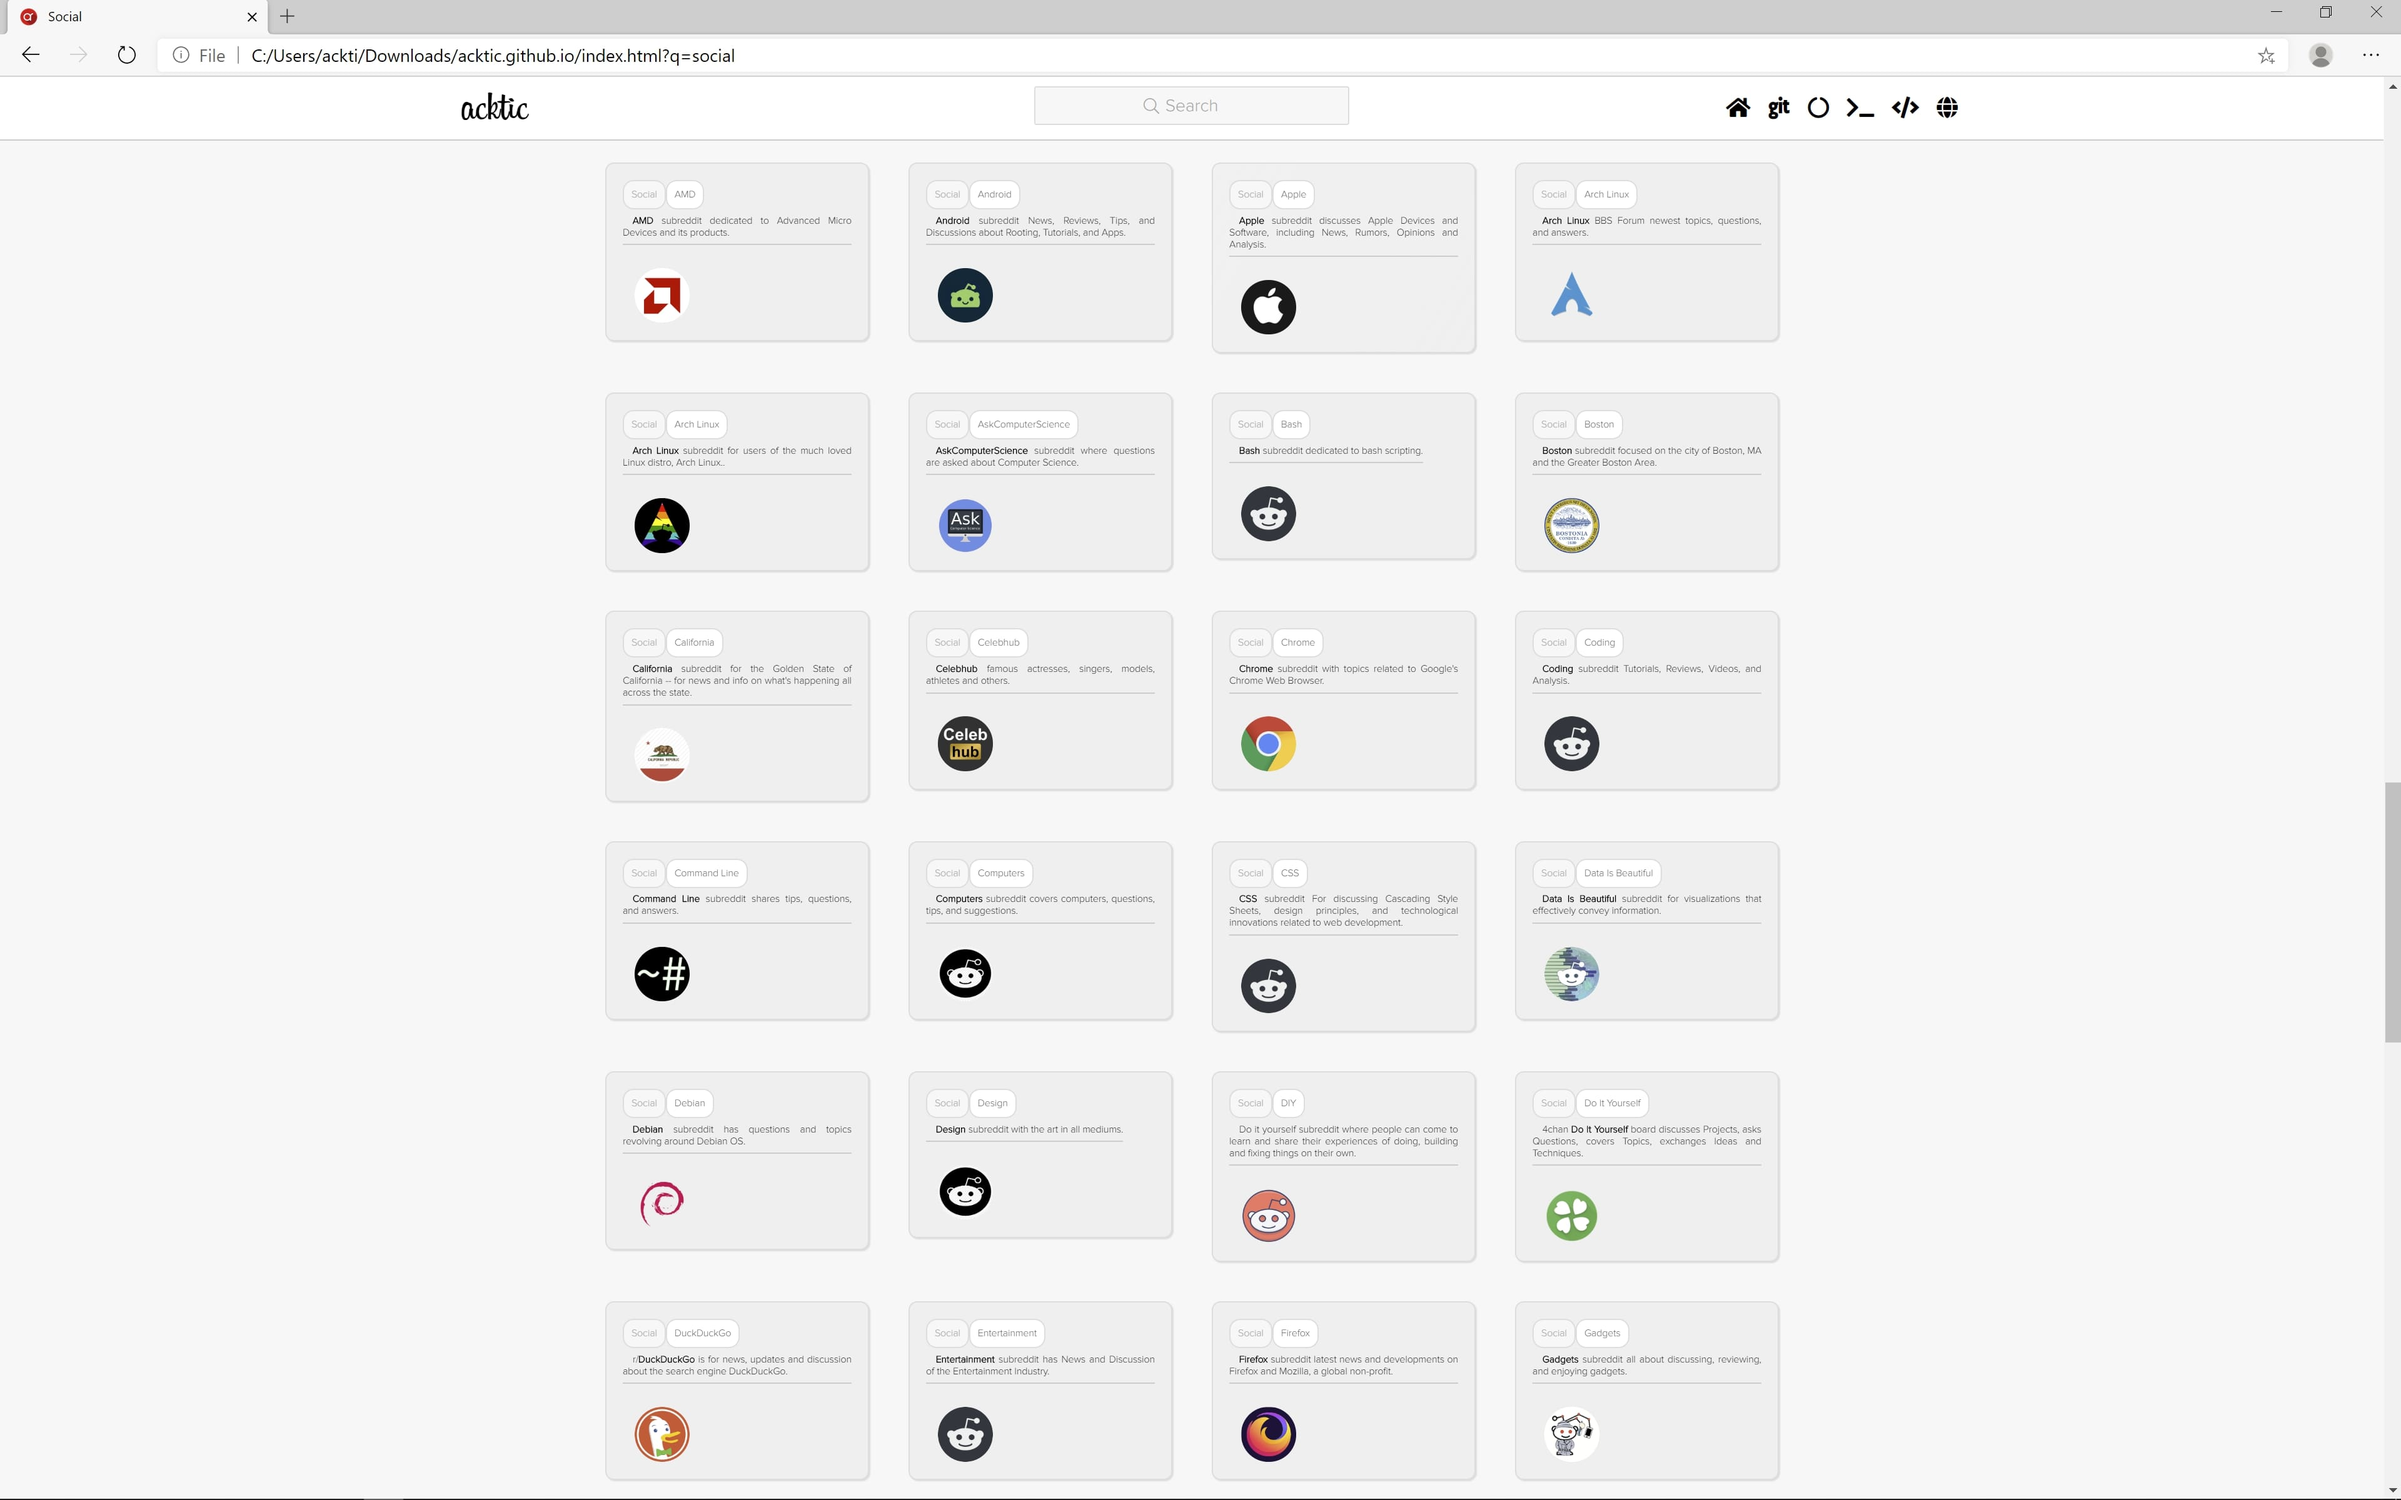
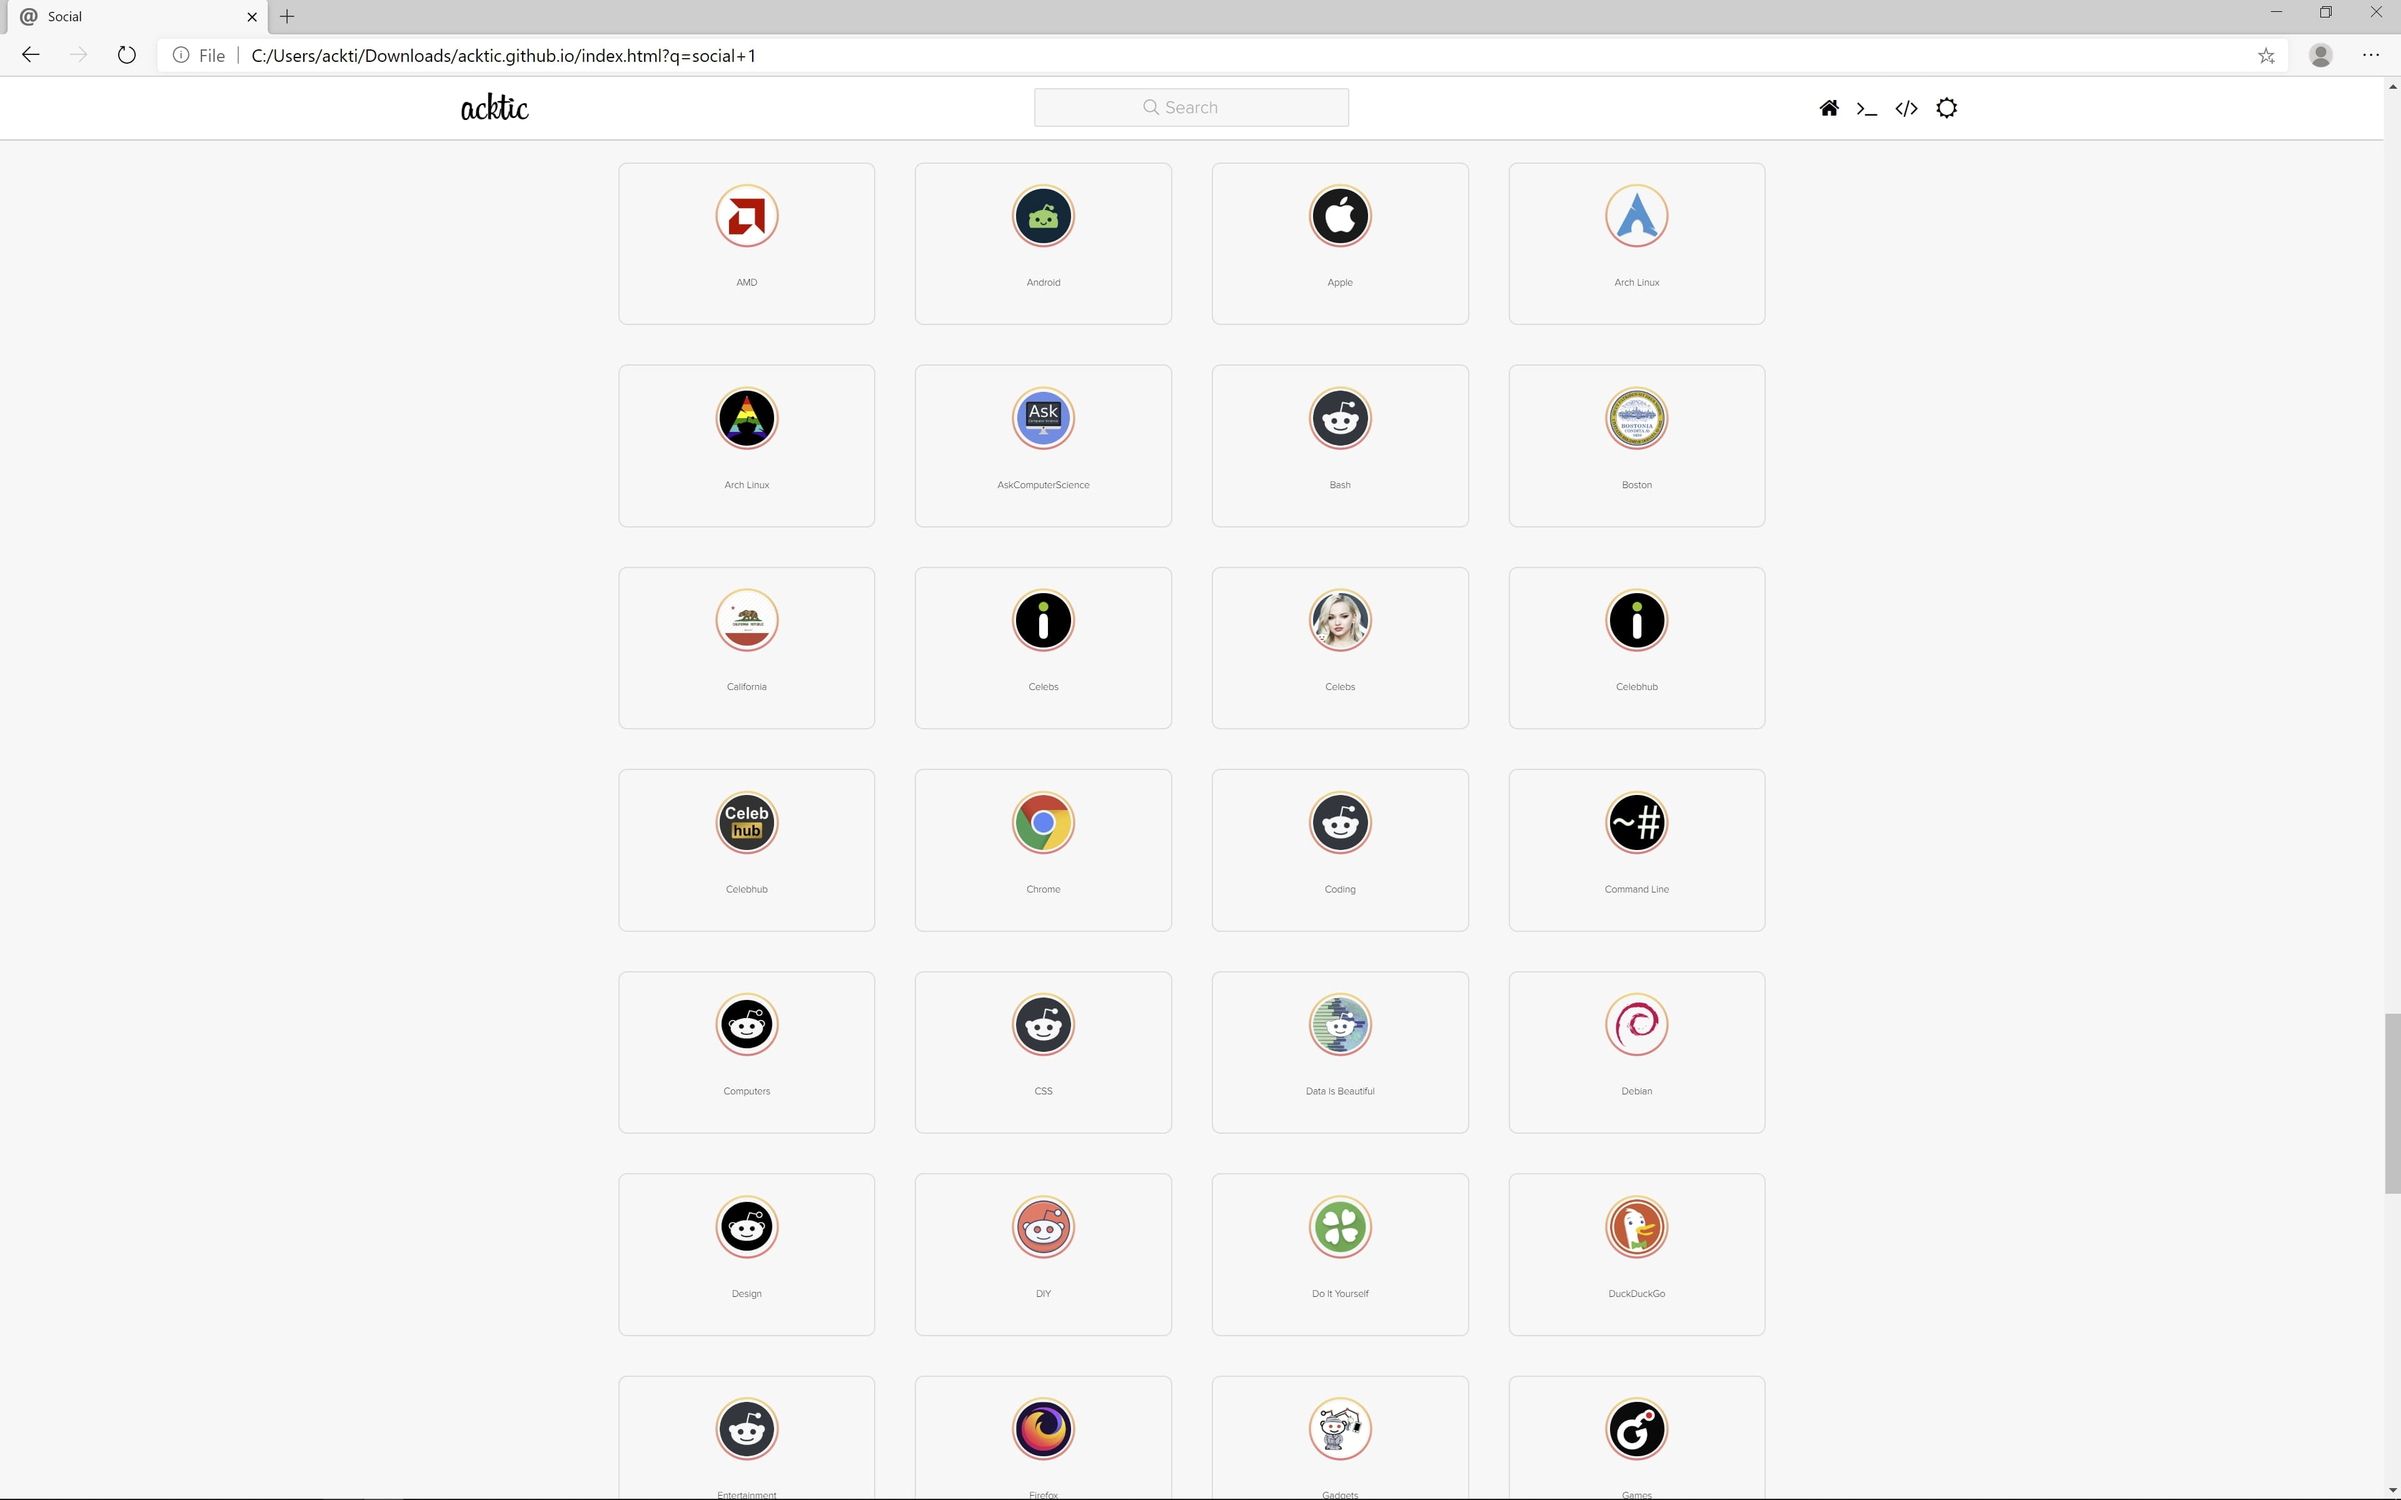
redid filter populate, a little better

diff --git a/js/base.js b/js/base.js
@@ -1,6 +1,6 @@
 var id
 var img
-var op = 1
+var op = 0
 var tap = 0
 var object = []
 var filter = []
@@ -247,14 +247,26 @@ var populate = function(n) {
       $('#main .result').append(
         "<div class='populate' index='" + menu.indexOf(menu[i]) + "'" +
         "  response='" + menu[i].id.toLowerCase().replace(/\/|\.|\s|\-/g, '-') + "'> " +
-        "  <div class='pub'>" +
-        "    <div class='category'>" + menu[i].cat + "</div>" +
-        "    <a class='title' ext='" + menu[i].ext + "'>" +
+        "  <div class='display'>" +
+        "<svg>" +
+        "  <defs>" +
+        "    <linearGradient id='gradientOpposite'>" +
+        "      <stop offset='0%' stop-color='#ef4063' />" +
+        "      <stop offset='99%' stop-color='#e557c6' />" +
+        "    </linearGradient>" +
+        "    <linearGradient id='gradientInvert'>" +
+        "      <stop offset='0%' stop-color='#F7797d' />" +
+        "      <stop offset='99%' stop-color='#fbd786' />" +
+        "    </linearGradient>" +
+        "  </defs>" +
+        "  <circle cx='36' cy='36' r='28' class='border'></circle>" +
+        "</svg>" +
+        "    <img class='id' src='" + img + "' " +
+        "       response='" + menu[i].id.toLowerCase().replace(/\/|\.|\s|\-/g, '-') + "'> " +
+        "  </div>" +
+        "    <a class='title' ext='" + menu[i].ext + "' title='" + menu[i].id + "'>" +
                menu[i].id.match(/[^\/]+$/g) +
         "    </a>" +
-        "  </div>" +
-        "  <div class='description'>&emsp;" + hilight + "</div>" +
-        "  <img class='id' style='top:10px' src='" + img + "'>" +
         "</div>"
       )
     }
@@ -281,15 +293,27 @@ var air = function(n) {
         "<div class='populate' + index='" + menu.indexOf(menu[i]) + "'" +
         "  response='" +
              menu[i].id.toLowerCase().replace(/[\/|\.|\s|\-]/g, '-') + "'> " +
-        "  <div class='pub'>" +
-        "    <div class='category'>" + menu[i].cat + "</div>" +
-        "    <a class='title' ext='" + menu[i].ext + "'>" +
-               menu[i].id.match(/[^\/]+$/g) +
-        "    </a>" +
-        "  </div>" +
-        "  <div class='description'>&emsp;" + hilight + "</div>" +
-        "  <img class='id' style='top:10px' src='" + img + "'>" +
-        "</div>"
+             "  <div class='display'>" +
+             "<svg>" +
+             "  <defs>" +
+             "    <linearGradient id='gradientOpposite'>" +
+             "      <stop offset='0%' stop-color='#ef4063' />" +
+             "      <stop offset='99%' stop-color='#e557c6' />" +
+             "    </linearGradient>" +
+             "    <linearGradient id='gradientInvert'>" +
+             "      <stop offset='0%' stop-color='#F7797d' />" +
+             "      <stop offset='99%' stop-color='#fbd786' />" +
+             "    </linearGradient>" +
+             "  </defs>" +
+             "  <circle cx='36' cy='36' r='28' class='border'></circle>" +
+             "</svg>" +
+             "    <img class='id' src='" + img + "' " +
+             "       response='" + menu[i].id.toLowerCase().replace(/\/|\.|\s|\-/g, '-') + "'> " +
+             "  </div>" +
+             "    <a class='title' ext='" + menu[i].ext + "' title='" + menu[i].id + "'>" +
+                    menu[i].id.match(/[^\/]+$/g) +
+             "    </a>" +
+             "</div>"
       )
     }
   }
@@ -359,6 +383,7 @@ var write = function(n) {
       "<div class='result' style='display:none'></div>"
     )
   var tag = menu[n].id.match(/[^\/]+$/g)
+  var img = 'images/png/' + menu[n].img + '.png'
   var hilight = menu[n].des.replace(tag, "<b>" + tag + '</b>')
   if (n != id || n != filter[filter.length - 1] || filter.length >= 1)
     $('#main .result').append(
@@ -367,14 +392,26 @@ var write = function(n) {
       "  response='" + menu[n].id.toLowerCase().replace(/[\/|\.|\s|\-]/g, '-') + "'" +
       "  search='" + menu[n].cat.toLowerCase() +
       "'> " +
-      "  <div class='pub'>" +
-      "    <div class='category'>" + menu[n].cat + "</div>" +
-      "    <a class='title' ext='" + menu[n].ext + "'>" +
+      "  <div class='display'>" +
+      "<svg>" +
+      "  <defs>" +
+      "    <linearGradient id='gradientOpposite'>" +
+      "      <stop offset='0%' stop-color='#ef4063' />" +
+      "      <stop offset='99%' stop-color='#e557c6' />" +
+      "    </linearGradient>" +
+      "    <linearGradient id='gradientInvert'>" +
+      "      <stop offset='0%' stop-color='#F7797d' />" +
+      "      <stop offset='99%' stop-color='#fbd786' />" +
+      "    </linearGradient>" +
+      "  </defs>" +
+      "  <circle cx='36' cy='36' r='28' class='border'></circle>" +
+      "</svg>" +
+      "    <img class='id' src='" + img + "' " +
+      "      response='" + menu[n].id.toLowerCase().replace(/\/|\.|\s|\-/g, '-') + "'> " +
+      "  </div>" +
+      "    <a class='title' ext='" + menu[n].ext + "' title='" + menu[n].id + "'>" +
              menu[n].id.match(/[^\/]+$/g) +
       "    </a>" +
-      "  </div>" +
-      "  <div class='description'>&emsp;" + hilight + "</div>" +
-      "<img class='id' style='top:10px' src='" + "images/png/" + menu[n].img + ".png'>" +
       "</div>"
     )
 

diff --git a/js/visual.js b/js/visual.js
@@ -17,7 +17,7 @@ var visual = function(n) {
     ).css('color', '#fff')
     $(
       '#top, #arm, #home a, #arm #option, .filter, .populate, .wrap, ' +
-      '.header, .title, .category, .type, .item, .comment, .ago, ' +
+      '.header, .type, .item, .comment, .ago, .filter a, .populate a, ' +
       '.pub, .tag, .stats, .suggestions, .combine, .right, .left'
     ).css({
       'background-color': '#0e0e0e',
@@ -44,7 +44,7 @@ var visual = function(n) {
     })
 
     $('#progressBar').removeClass('responseInvert').addClass('responseOpposite')
-    $('.filter, .populate, .category, .title').css('border','1px solid #0e0e0e')
+    $('.filter, .populate').css('border','1px solid #0e0e0e')
     $('#top, .description, .comment').css('border-bottom', '1px solid #333')
     $('#option .fa-circle-o').toggleClass('fa-circle-o fa-circle')
     $('.index, .hover').addClass('contrast').removeClass('visual')
@@ -63,14 +63,14 @@ var visual = function(n) {
   } else if (op == 0) {
     $(
       '#top, #arm, #container, .wrap, ' +
-      '.comment, .channel, #main .center .feed, .title, .header, .tag, ' +
+      '.comment, .channel, #main .center .feed, .header, .tag, ' +
       '.item, .item .pub, .type, .ago, a'
     ).css({
       'background-color': '#fff',
       'color': '#666',
       'border': 'none'
     })
-    $('input[type=text], .category').css({
+    $('input[type=text]').css({
       'background-color': '#f7f7f7',
       'border': '1px solid #ddd',
       'color': '#aaa'
@@ -82,14 +82,15 @@ var visual = function(n) {
     $(
       '#front #option, #main, #visit, .air, .result, #bottom, .hover, .info a, ' +
       '.channel, .stats, .suggestions, .combine, #bottom, #main #page .id, ' +
-      '#main #page .feed, #main #page, .right, .left, #main #page .feed a'
+      '#main #page .feed, #main #page, .right, .left, #main #page .feed a, ' +
+      '.filter, .populate'
     ).css({
       'background-color': '#f7f7f7',
       'border': 'none',
       'color': '#666'
     })
     $(
-      '#home a, .description, .fa-sun, ' +
+      '#home a, .description, .fa-sun, .title, ' +
       '.fa-home, .fa-code, .fa-globe, .fa-git, ' +
       '.fa-terminal, .fa-circle-o, .fa-circle'
     ).css({
@@ -105,10 +106,10 @@ var visual = function(n) {
       'border': 'none'
     })
     $(
-      '.filter, .populate, .item, #page input[type=text], ' +
+      '.item, #page input[type=text], ' +
       '.right, .left, #page .id'
     ).css('box-shadow', '1px 1px 1px #ddd')
-    $('.filter, .populate, #main .center .feed, .title').css('border', '1px solid #ddd')
+    $('.filter, .populate, #main .center .feed').css('border', '1px solid #ddd')
     $('#toggle, .fa-angle-double-left, .fa-angle-double-right').css('color', '#666')
     $('#progressBar').removeClass('responseOpposite').addClass('responseInvert')
     $('#top, .description, .index').css('border-bottom', '1px solid #ccc')
@@ -116,7 +117,6 @@ var visual = function(n) {
     $('#option .fa-circle').toggleClass('fa-circle-thin fa-circle')
     $('.index, .hover').addClass('visual').removeClass('contrast')
     $('.blur').css('background-color','rgba(255, 255, 255, .3)')
-    $('.filter, .populate').css('background-color', '#efefef')
     $('.listing').addClass('invert').removeClass('opposite')
     $('.second').css('cssText','fill: #12d8fa !important')
     $('.third').css('cssText','fill: #06ffcb !important')

diff --git a/js/dynamic.js b/js/dynamic.js
@@ -1,7 +1,8 @@
 $(document)
   .ready()
 .on('touch click', '#main .center .quick .feed .asset .id, ' +
-  '#main #page .quick .feed .asset .id', function(e) {
+  '#main #page .quick .feed .asset .id, ' +
+  '#main .filter .display .id, #main .populate .display .id', function(e) {
   var $this = $(this)
   $(this).parent().find('svg circle').addClass('mask')
   setTimeout(function() {
@@ -20,7 +21,8 @@ $(document)
       else if (contrast == true) uri = uri + '+1'
       exit(uri)
     }
-  }, 550)
+  }, 750)
+  e.stopPropagation()
 })
 
 .on('touch click', '#main .center .channel .item', function(e) {
@@ -160,7 +162,7 @@ $(document)
           $(this).parents('.item').find('.source').val()
         )
         $('#guide').find('.copy:first').remove()
-        image(false, false, 
+        image(false, false,
           $(this).parents('.item').attr('item'),
           $(this).parents('.item').find('.img').attr('src')
         )

diff --git a/css/static.css b/css/static.css
@@ -260,17 +260,26 @@ body,
   border-radius: 8px;
   flex-wrap: wrap;
   font-size: 9px;
-  padding: 15px;
+  padding: 12px;
   margin: 3em;
   width: 16em;
+}
+
+.filter a,
+.populate a {
+  position: relative;
+  margin: 10px auto;
+}
+
+.filter .display,
+.populate .display {
+  width: 100%;
 }
 
 .title,
 .category {
   border-radius: 10px;
-  margin: auto 0;
-  padding: 7px;
-  float: left;
+  padding: 10px;
 }
 
 .description {

diff --git a/css/media.css b/css/media.css
@@ -42,7 +42,6 @@
   }
 
   #option {
-    background-color: #f7f7f7 !important;
     width: calc(100% - 20px) !important;
     top: calc(100% - 40px) !important;
     position: fixed !important;
